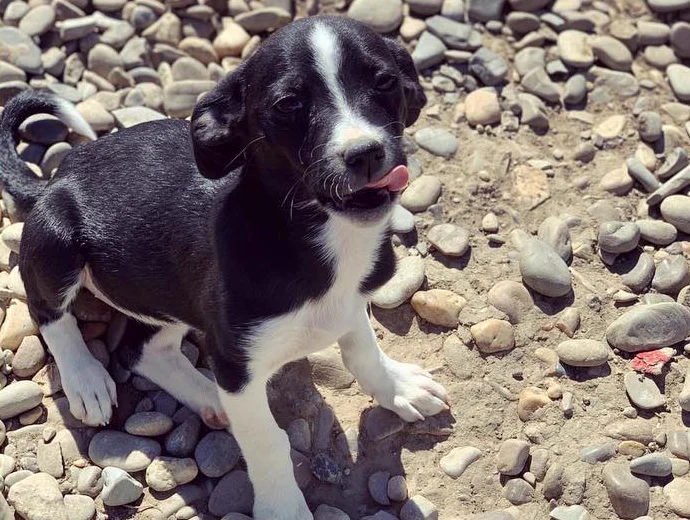
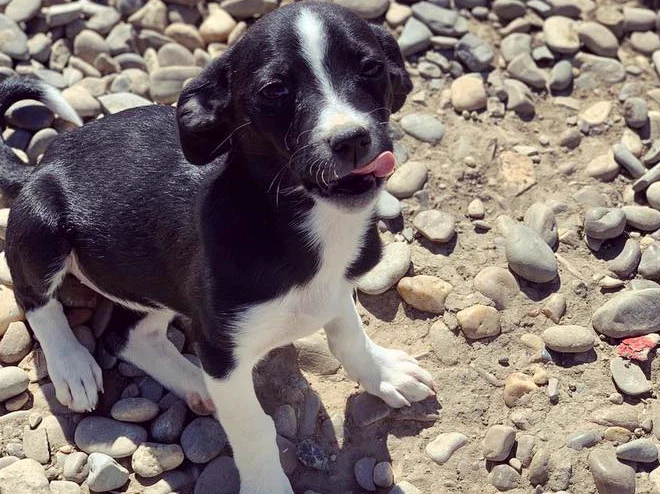
Header on one row on mobile; puppy crops clear of the collage border

diff --git a/site.css b/site.css
@@ -17,14 +17,26 @@
 .donate-btn:hover { transform: translateY(-1px); }
 .donate-btn:active { transform: translateY(1px) scale(.97); }
 .site-head select { font: 500 var(--sc-t-xs)/1 var(--sc-font-text); color: var(--sc-ink-soft); background: transparent; border: 1px solid var(--sc-hairline-strong); border-radius: var(--sc-r-sm); padding: .38rem .45rem; cursor: pointer; }
+/* mobile: brand + socials + language + donate all share the first row,
+   the nav takes its own scrollable row underneath */
 @media (max-width: 900px) {
-  .site-head { gap: .55rem .8rem; padding: .55rem var(--sc-gutter); }
-  .head-brand { font-size: 1.02rem; }
-  .head-brand .head-logo { width: 2rem; height: 2rem; }
-  .head-nav { order: 3; flex-basis: 100%; gap: 1rem; }
+  .site-head { gap: .4rem .55rem; padding: .5rem var(--sc-gutter); }
+  .head-brand { font-size: .95rem; gap: .45rem; min-width: 0; flex: 0 1 auto; }
+  .head-brand span { overflow: hidden; text-overflow: ellipsis; white-space: nowrap; }
+  .head-brand .head-logo { width: 1.8rem; height: 1.8rem; }
+  .head-nav { order: 3; flex-basis: 100%; gap: 1rem; margin-right: 0; }
   .head-nav a { font-size: var(--sc-t-xs); }
-  .donate-btn { padding: .5rem .75rem; }
-  .site-head select { padding: .3rem .35rem; }
+  .head-actions { margin-left: auto; gap: .5rem; flex: 0 0 auto; }
+  .soc svg { width: 1.05rem; height: 1.05rem; }
+  .donate-btn { padding: .45rem .62rem; font-size: .72rem; }
+  .site-head select { padding: .28rem .22rem; font-size: .68rem; }
+}
+@media (max-width: 430px) {
+  .head-brand { font-size: .85rem; gap: .38rem; }
+  .head-brand .head-logo { width: 1.6rem; height: 1.6rem; }
+  .head-actions { gap: .42rem; }
+  .donate-btn { padding: .42rem .55rem; font-size: .68rem; }
+  .site-head select { font-size: .64rem; padding: .26rem .16rem; }
 }
 
 /* video embed frame */

diff --git a/gallery.html b/gallery.html
@@ -9,8 +9,8 @@
 <link rel="preconnect" href="https://fonts.googleapis.com">
 <link rel="preconnect" href="https://fonts.gstatic.com" crossorigin>
 <link rel="stylesheet" href="https://fonts.googleapis.com/css2?family=Fraunces:ital,opsz,wght@0,9..144,340..640;1,9..144,340..640&family=Archivo:wght@400;500;600&display=swap">
-<link rel="stylesheet" href="scrollcraft.css?v=20260911a">
-<link rel="stylesheet" href="site.css?v=20260911a">
+<link rel="stylesheet" href="scrollcraft.css?v=20260912a">
+<link rel="stylesheet" href="site.css?v=20260912a">
 <style>
   :root {
     --sc-canvas:     #E9F7F9;
@@ -147,8 +147,8 @@
   <span>Europe4strays · <span data-i18n="footNgo">registered Romanian NGO</span> · Bizighești, Vrancea · IBAN RO91BTRLEURCRT0409910001</span>
 </footer>
 
-<script src="gallery-data.js?v=20260911a"></script>
-<script src="i18n.js?v=20260911a"></script>
+<script src="gallery-data.js?v=20260912a"></script>
+<script src="i18n.js?v=20260912a"></script>
 <script>
 (function () {
   var G = window.E4S_GALLERY || { photos: [], pairs: [], latestCount: 6 };

diff --git a/index.html b/index.html
@@ -9,8 +9,8 @@
 <link rel="preconnect" href="https://fonts.googleapis.com">
 <link rel="preconnect" href="https://fonts.gstatic.com" crossorigin>
 <link rel="stylesheet" href="https://fonts.googleapis.com/css2?family=Fraunces:ital,opsz,wght@0,9..144,340..640;1,9..144,340..640&family=Archivo:wght@400;500;600&display=swap">
-<link rel="stylesheet" href="scrollcraft.css?v=20260911a">
-<link rel="stylesheet" href="site.css?v=20260911a">
+<link rel="stylesheet" href="scrollcraft.css?v=20260912a">
+<link rel="stylesheet" href="site.css?v=20260912a">
 <style>
   :root {
     --sc-canvas:     #E9F7F9;
@@ -544,9 +544,9 @@
 
 </main>
 
-<script src="scrollcraft.js?v=20260911a"></script>
-<script src="i18n.js?v=20260911a"></script>
-<script src="site.js?v=20260911a"></script>
+<script src="scrollcraft.js?v=20260912a"></script>
+<script src="i18n.js?v=20260912a"></script>
+<script src="site.js?v=20260912a"></script>
 <script>ScrollCraft.mount(document.body);</script>
 </body>
 </html>

diff --git a/help.html b/help.html
@@ -9,8 +9,8 @@
 <link rel="preconnect" href="https://fonts.googleapis.com">
 <link rel="preconnect" href="https://fonts.gstatic.com" crossorigin>
 <link rel="stylesheet" href="https://fonts.googleapis.com/css2?family=Fraunces:ital,opsz,wght@0,9..144,340..640;1,9..144,340..640&family=Archivo:wght@400;500;600&display=swap">
-<link rel="stylesheet" href="scrollcraft.css?v=20260911a">
-<link rel="stylesheet" href="site.css?v=20260911a">
+<link rel="stylesheet" href="scrollcraft.css?v=20260912a">
+<link rel="stylesheet" href="site.css?v=20260912a">
 <style>
   :root {
     --sc-canvas:     #E9F7F9;
@@ -215,7 +215,7 @@
   <span>Europe4strays · <span data-i18n="footNgo">registered Romanian NGO</span> · Bizighești, Vrancea · IBAN RO91BTRLEURCRT0409910001</span>
 </footer>
 
-<script src="i18n.js?v=20260911a"></script>
+<script src="i18n.js?v=20260912a"></script>
 <script>
   document.querySelectorAll(".copy-btn[data-copy]").forEach(function (btn) {
     var original = null;

diff --git a/adopt.html b/adopt.html
@@ -9,8 +9,8 @@
 <link rel="preconnect" href="https://fonts.googleapis.com">
 <link rel="preconnect" href="https://fonts.gstatic.com" crossorigin>
 <link rel="stylesheet" href="https://fonts.googleapis.com/css2?family=Fraunces:ital,opsz,wght@0,9..144,340..640;1,9..144,340..640&family=Archivo:wght@400;500;600&display=swap">
-<link rel="stylesheet" href="scrollcraft.css?v=20260911a">
-<link rel="stylesheet" href="site.css?v=20260911a">
+<link rel="stylesheet" href="scrollcraft.css?v=20260912a">
+<link rel="stylesheet" href="site.css?v=20260912a">
 <style>
   :root {
     --sc-canvas:     #E9F7F9;
@@ -156,6 +156,6 @@
   <span>Europe4strays · <span data-i18n="footNgo">registered Romanian NGO</span> · Bizighești, Vrancea · IBAN RO91BTRLEURCRT0409910001</span>
 </footer>
 
-<script src="i18n.js?v=20260911a"></script>
+<script src="i18n.js?v=20260912a"></script>
 </body>
 </html>

diff --git a/friends.html b/friends.html
@@ -9,8 +9,8 @@
 <link rel="preconnect" href="https://fonts.googleapis.com">
 <link rel="preconnect" href="https://fonts.gstatic.com" crossorigin>
 <link rel="stylesheet" href="https://fonts.googleapis.com/css2?family=Fraunces:ital,opsz,wght@0,9..144,340..640;1,9..144,340..640&family=Archivo:wght@400;500;600&display=swap">
-<link rel="stylesheet" href="scrollcraft.css?v=20260911a">
-<link rel="stylesheet" href="site.css?v=20260911a">
+<link rel="stylesheet" href="scrollcraft.css?v=20260912a">
+<link rel="stylesheet" href="site.css?v=20260912a">
 <style>
   :root {
     --sc-canvas:     #E9F7F9;
@@ -261,6 +261,6 @@
   <span>Europe4strays · <span data-i18n="footNgo">registered Romanian NGO</span> · Bizighești, Vrancea · IBAN RO91BTRLEURCRT0409910001</span>
 </footer>
 
-<script src="i18n.js?v=20260911a"></script>
+<script src="i18n.js?v=20260912a"></script>
 </body>
 </html>

diff --git a/projects.html b/projects.html
@@ -9,8 +9,8 @@
 <link rel="preconnect" href="https://fonts.googleapis.com">
 <link rel="preconnect" href="https://fonts.gstatic.com" crossorigin>
 <link rel="stylesheet" href="https://fonts.googleapis.com/css2?family=Fraunces:ital,opsz,wght@0,9..144,340..640;1,9..144,340..640&family=Archivo:wght@400;500;600&display=swap">
-<link rel="stylesheet" href="scrollcraft.css?v=20260911a">
-<link rel="stylesheet" href="site.css?v=20260911a">
+<link rel="stylesheet" href="scrollcraft.css?v=20260912a">
+<link rel="stylesheet" href="site.css?v=20260912a">
 <style>
   :root {
     --sc-canvas:     #E9F7F9;
@@ -183,6 +183,6 @@
   <span>Europe4strays · <span data-i18n="footNgo">registered Romanian NGO</span> · Bizighești, Vrancea · IBAN RO91BTRLEURCRT0409910001</span>
 </footer>
 
-<script src="i18n.js?v=20260911a"></script>
+<script src="i18n.js?v=20260912a"></script>
 </body>
 </html>

diff --git a/blog.html b/blog.html
@@ -9,8 +9,8 @@
 <link rel="preconnect" href="https://fonts.googleapis.com">
 <link rel="preconnect" href="https://fonts.gstatic.com" crossorigin>
 <link rel="stylesheet" href="https://fonts.googleapis.com/css2?family=Fraunces:ital,opsz,wght@0,9..144,340..640;1,9..144,340..640&family=Archivo:wght@400;500;600&display=swap">
-<link rel="stylesheet" href="scrollcraft.css?v=20260911a">
-<link rel="stylesheet" href="site.css?v=20260911a">
+<link rel="stylesheet" href="scrollcraft.css?v=20260912a">
+<link rel="stylesheet" href="site.css?v=20260912a">
 <style>
   :root {
     --sc-canvas:     #E9F7F9;
@@ -195,6 +195,6 @@
   </span>
 </footer>
 
-<script src="i18n.js?v=20260911a"></script>
+<script src="i18n.js?v=20260912a"></script>
 </body>
 </html>
